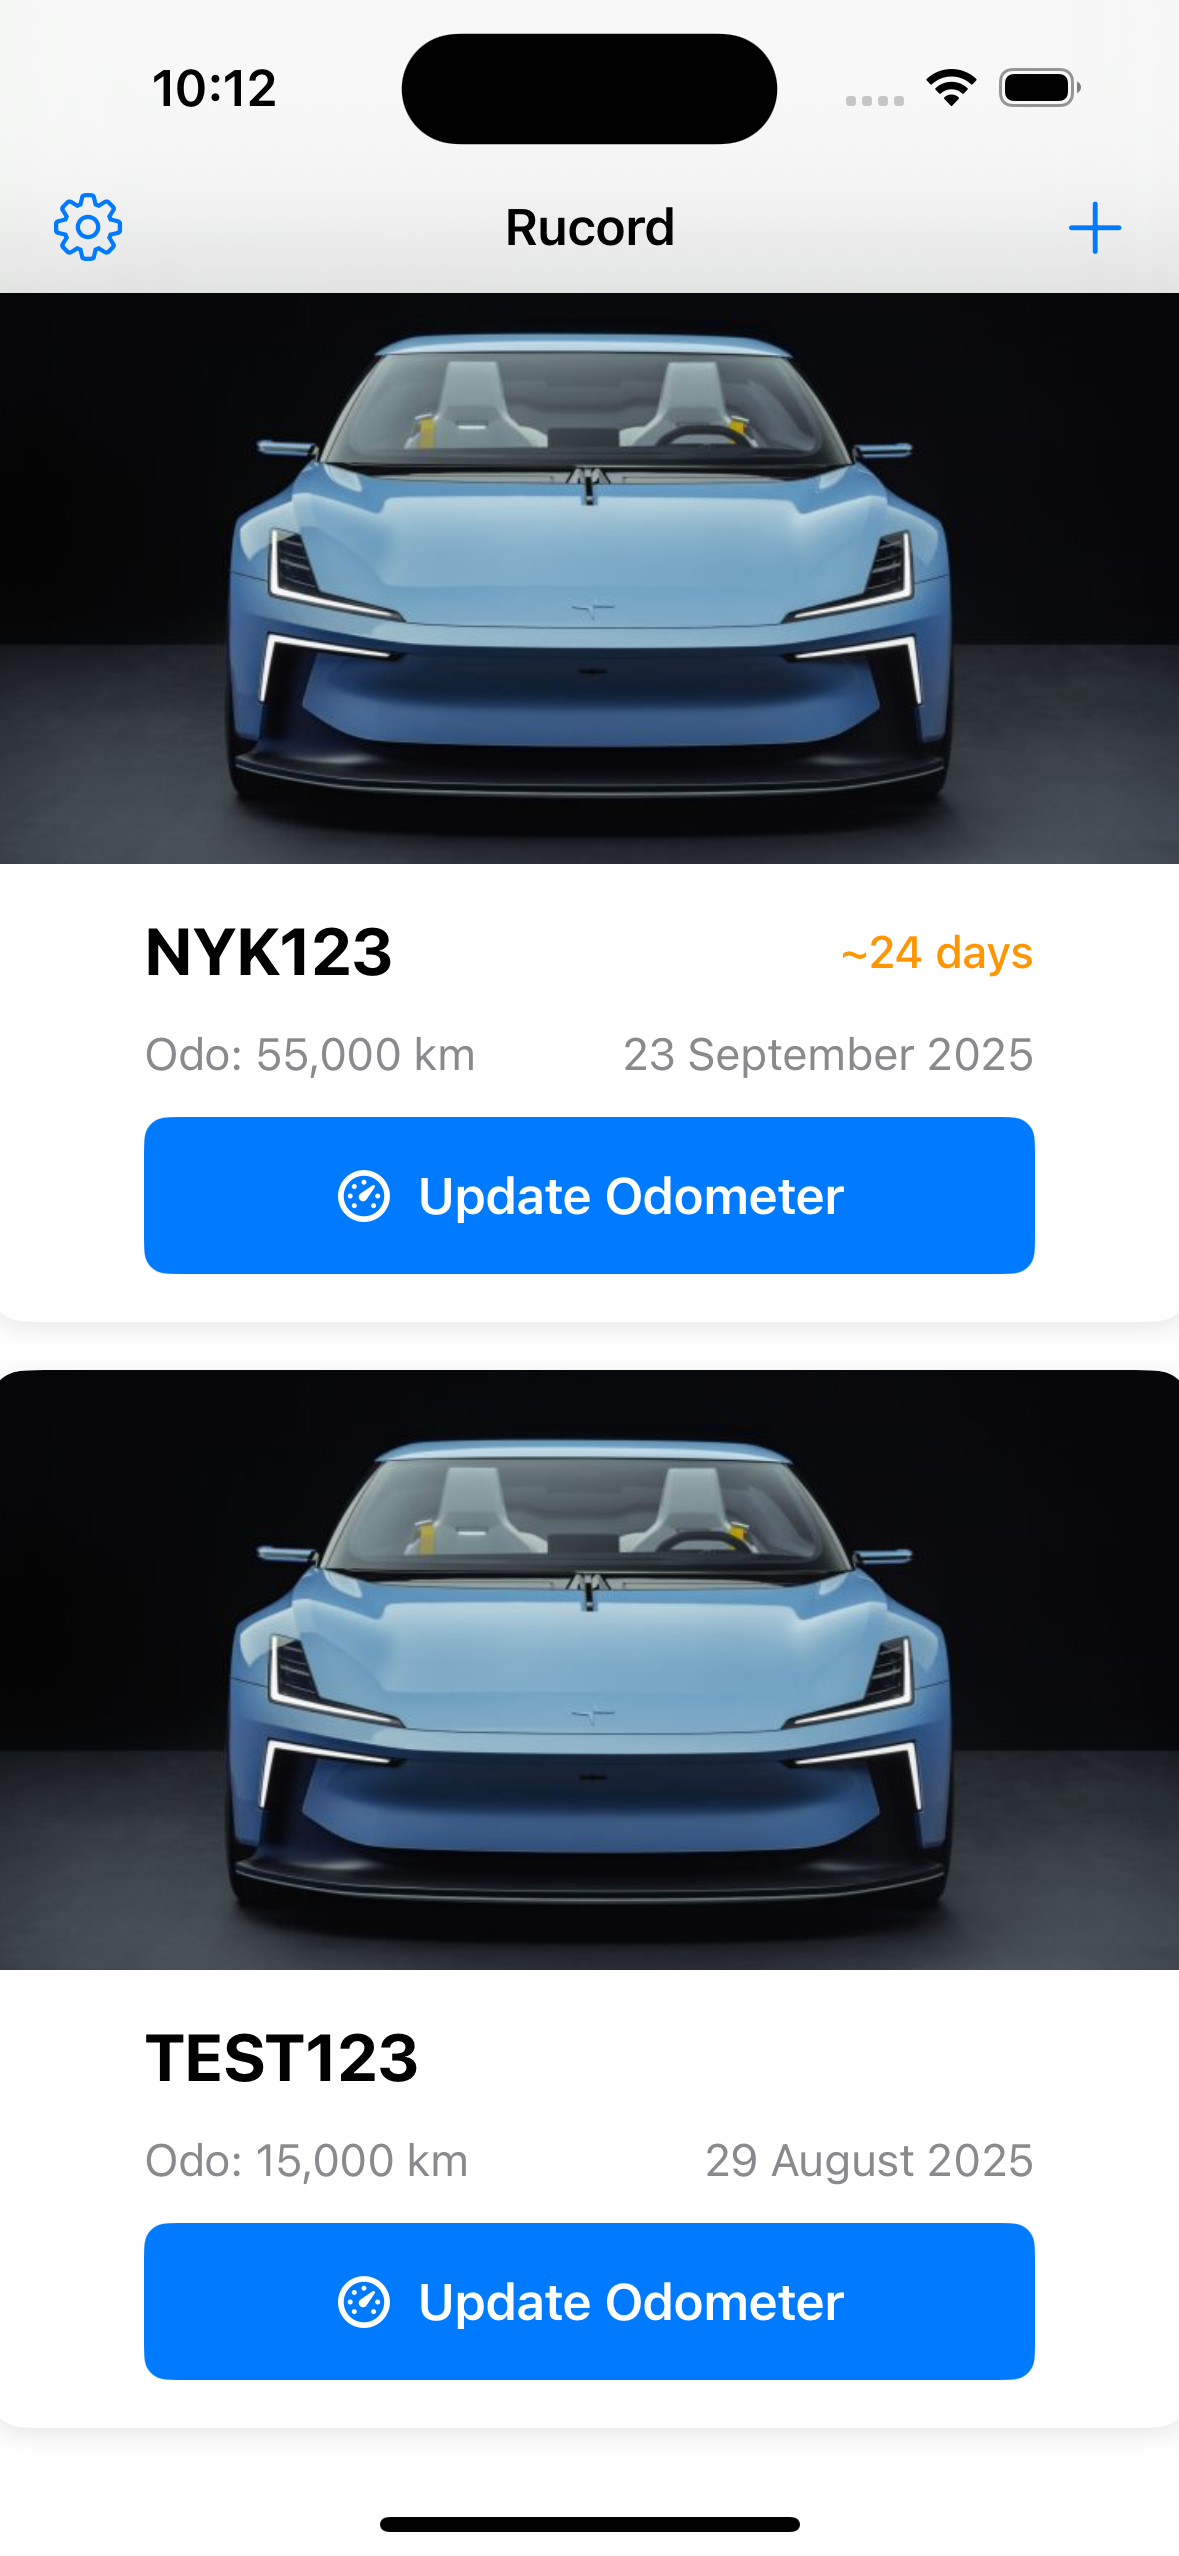
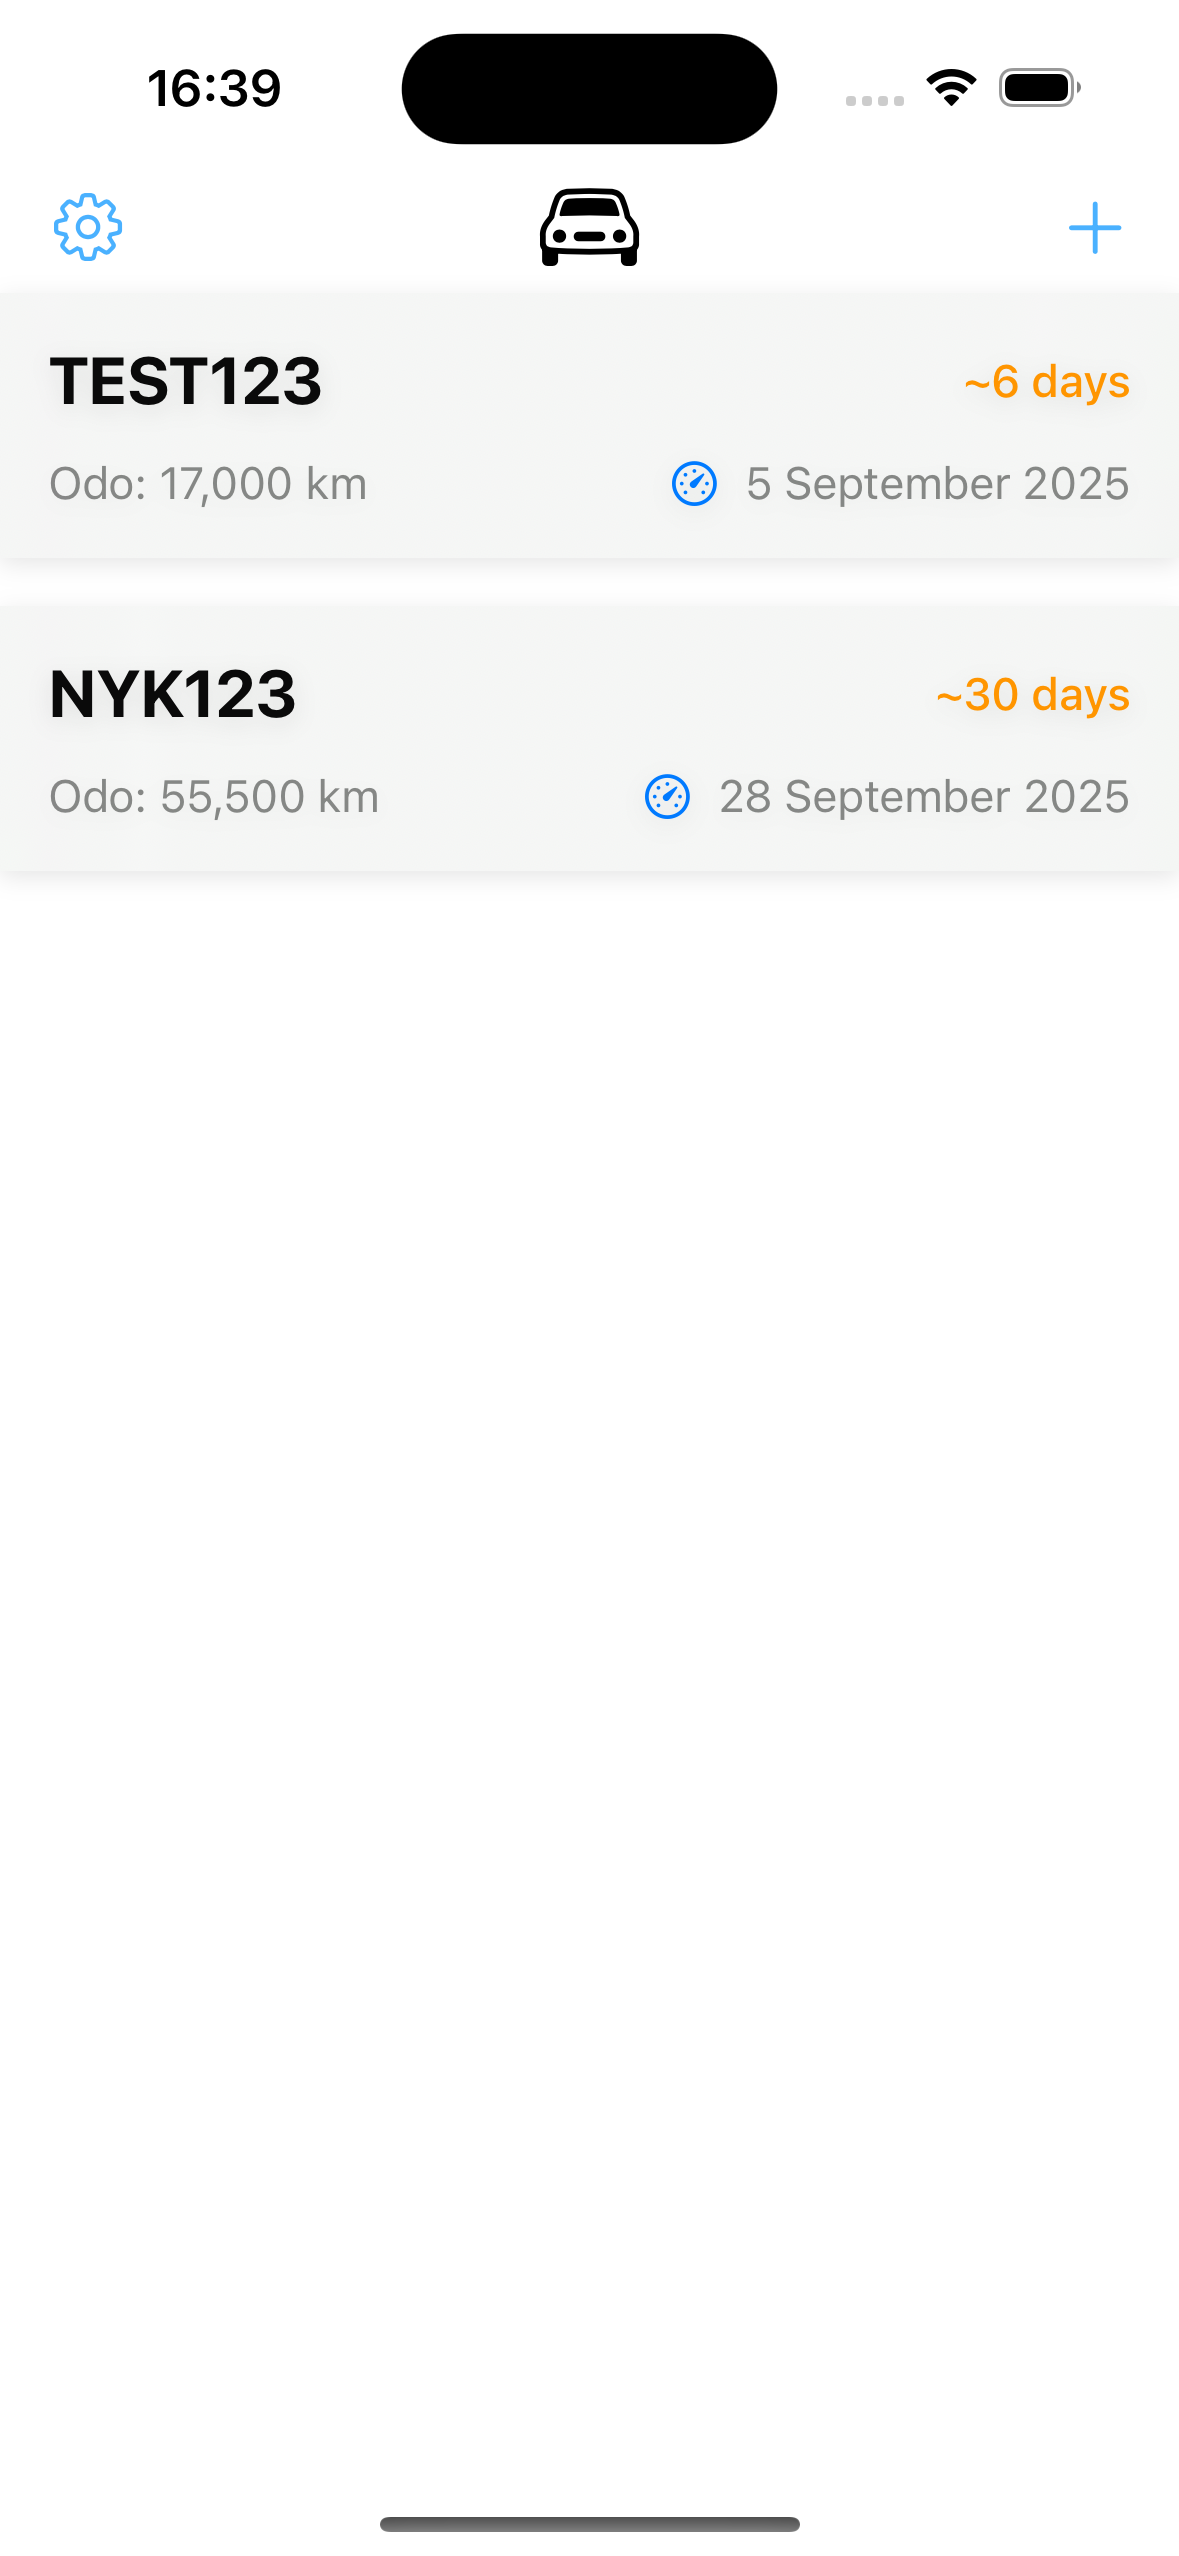
Update README with recent improvements and new screenshots
- Updated features to reflect UI improvements (subtle icons, auto-focus)
- Changed Quick bump to Quick add with updated parameters
- Updated Xcode requirement to 18+
- Added new screenshots showing current app state

Amp-Thread-ID: https://ampcode.com/threads/T-58880711-d697-4877-9ab3-44fe9675f10f

diff --git a/README.md b/README.md
@@ -8,18 +8,19 @@ Rucord is a small SwiftUI iOS app to track NZ Road User Charges (RUC) for one or
 - Set the RUC expiry odometer for each car
 - Add odometer readings (date + km)
 - Beautiful card-based home screen with:
-  - Car images and license plates prominently displayed
+  - Clean license plates and odometer readings with car icon
   - Latest odometer reading and projected days remaining
   - Due-soon highlighting (<= 500 km or <= 7 days) in orange
-  - One-tap "Update Odometer" button on each card
+  - Subtle gauge icon for quick odometer updates
 - Quick Update Odometer modal with:
-  - Easy odometer entry with date picker
+  - Auto-focused odometer entry with date picker
   - Quick increment buttons (+100, +500, +1000 km)
   - Current status overview (last reading, RUC expiry, distance remaining)
 - Car detail screen:
   - Summary with projections
-  - Quick bump menu to increase expiry odometer by preset amounts (e.g., +1,000, +5,000)
+  - Quick add menu to increase expiry odometer by preset amounts (+1,000, +2,000, +5,000, +10,000 km)
   - History of readings; collapsed by default to the latest 3 with Show all/Show less
+- Auto-focused input fields for better user experience
 - Persistent storage (simple JSON in Documents)
 
 ## Screenshots
@@ -48,7 +49,7 @@ Rucord is a small SwiftUI iOS app to track NZ Road User Charges (RUC) for one or
 
 ## Build and run
 
-Requirements: Xcode 15+ (Swift 5, SwiftUI).
+Requirements: Xcode 18+ (Swift 5, SwiftUI).
 
 - Open `Rucord.xcodeproj` in Xcode and run the `Rucord` scheme on iOS.
 - Or build via command line:
@@ -83,4 +84,4 @@ Note: The project’s deployment target may be higher than your installed iOS SD
 - Notifications when near expiry
 - iCloud sync
 - Widgets and shortcuts
-- Custom quick-bump amounts
+- Export/import data
